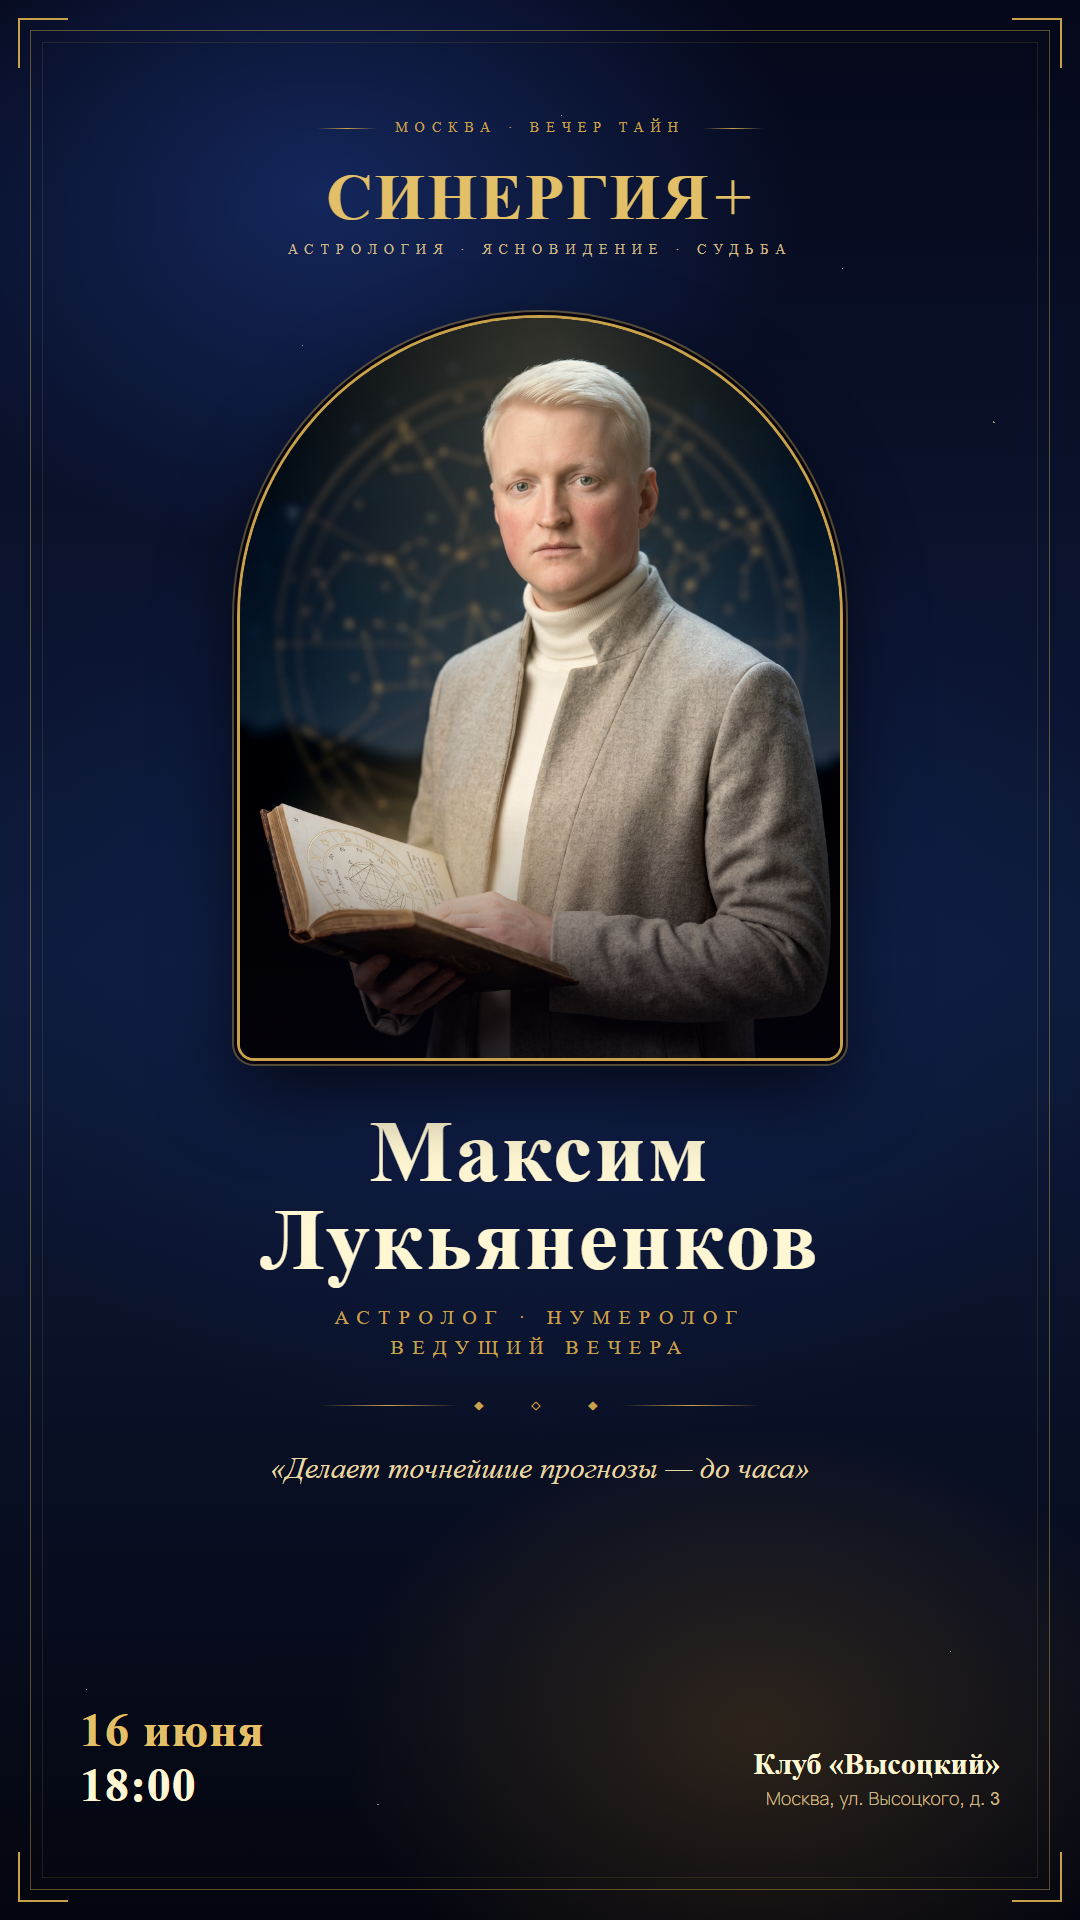
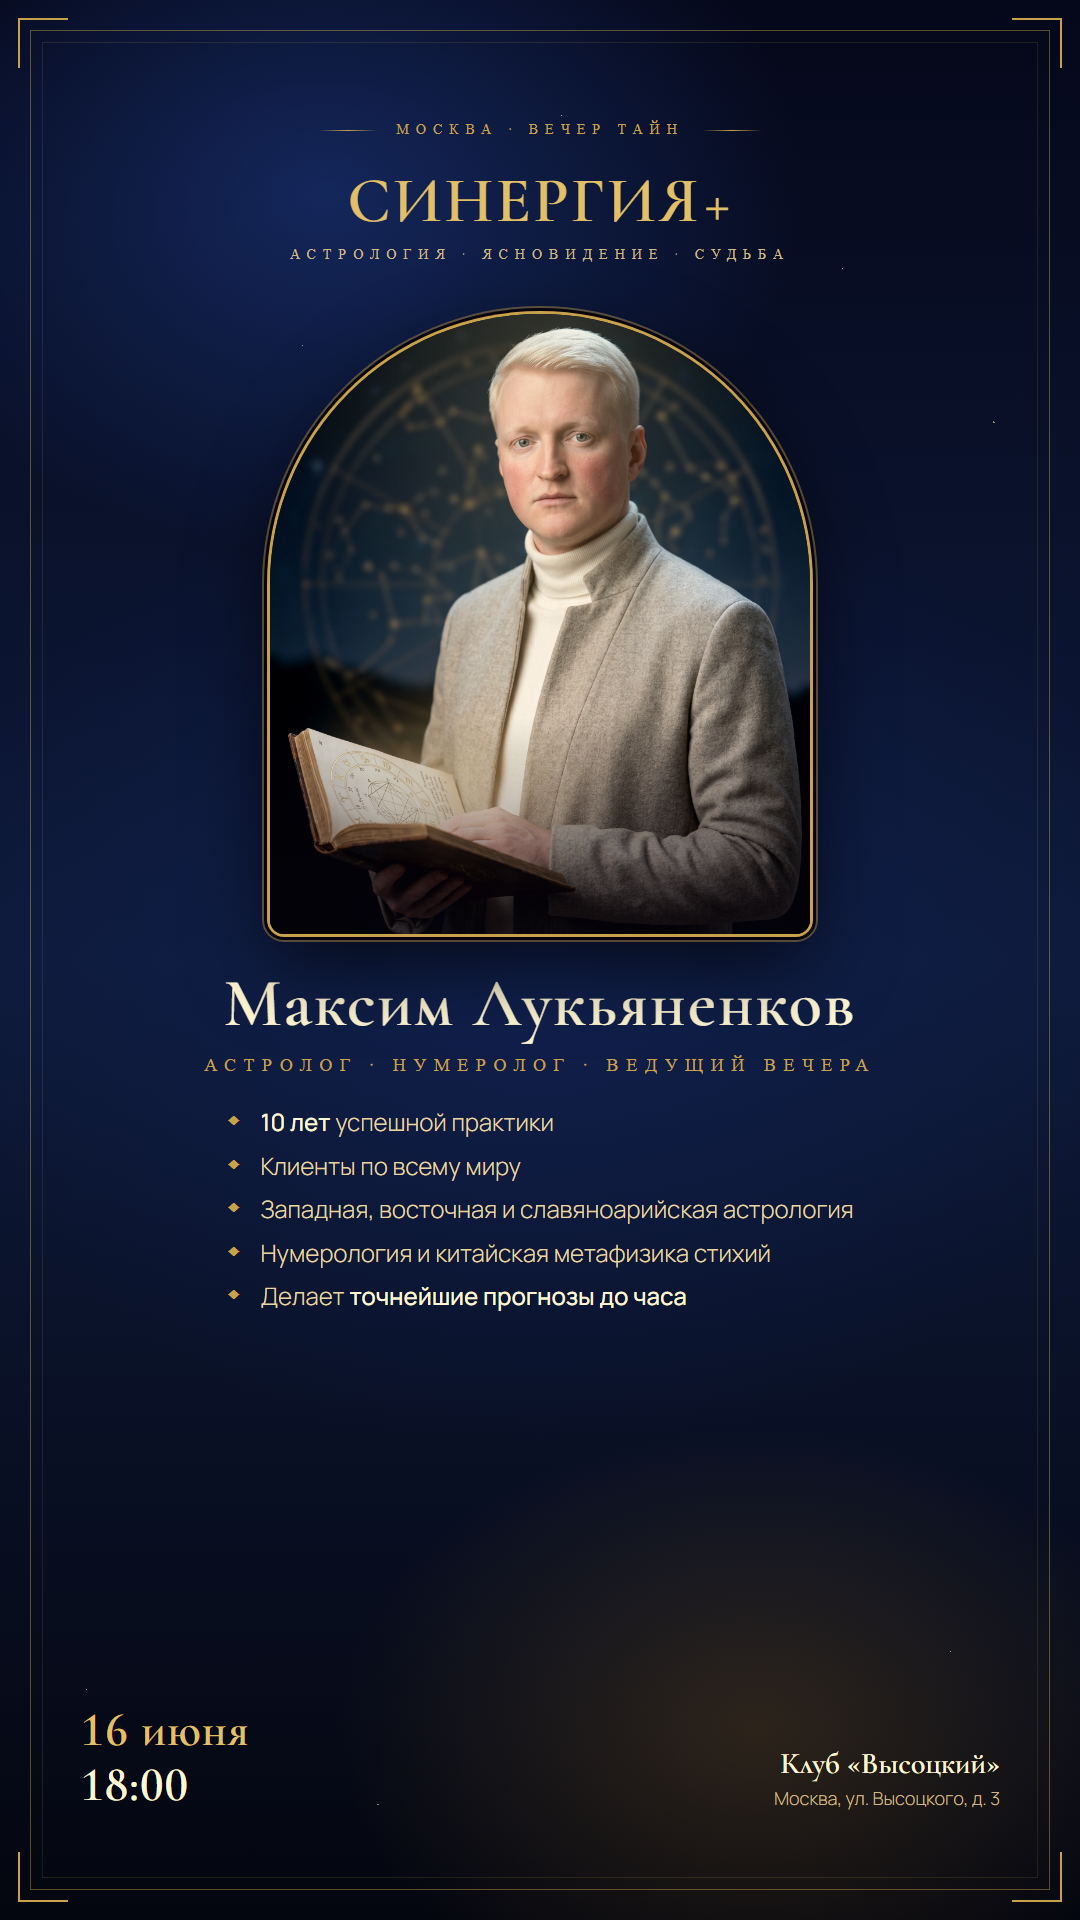
Full bio on hero cards

diff --git a/maksim.html b/maksim.html
@@ -90,10 +90,10 @@
   }
 
   .arch {
-    width:600px; height:740px;
-    margin:60px auto 0;
+    width:540px; height:620px;
+    margin:50px auto 0;
     position:relative;
-    border-radius:300px 300px 14px 14px;
+    border-radius:270px 270px 14px 14px;
     background:#140929;
     overflow:hidden;
     box-shadow:
@@ -118,18 +118,18 @@
   }
 
   .name {
-    margin-top:50px;
+    margin-top:36px;
     font-family:'Cormorant Garamond', serif;
-    font-size:88px; font-weight:600; line-height:1;
+    font-size:68px; font-weight:600; line-height:1;
     color:#fff6d3;
     letter-spacing:.03em;
     text-align:center;
   }
 
   .role {
-    margin-top:18px;
+    margin-top:14px;
     font-family:'Cinzel', serif;
-    font-size:20px; font-weight:500;
+    font-size:18px; font-weight:500;
     letter-spacing:.42em;
     text-transform:uppercase;
     color:#c8a24a;
@@ -137,27 +137,26 @@
     line-height:1.5;
   }
 
-  .divider {
-    margin:34px auto 0;
-    display:flex; align-items:center; justify-content:center;
-    gap:14px;
-    color:#c8a24a; font-size:14px; letter-spacing:.6em;
+  .bio {
+    margin:26px auto 0;
+    max-width:820px;
+    list-style:none;
   }
-  .divider::before, .divider::after {
-    content:""; width:140px; height:1px;
-    background:linear-gradient(90deg, transparent, #c8a24a, transparent);
-  }
-
-  .credo {
-    margin-top:32px;
-    font-family:'Cormorant Garamond', serif;
-    font-style:italic;
-    font-size:30px;
-    line-height:1.4;
+  .bio li {
+    position:relative;
+    padding-left:34px;
+    margin-bottom:10px;
+    font-family:'Manrope', sans-serif;
+    font-size:24px; line-height:1.4;
     color:#e7d8a3;
-    text-align:center;
-    max-width:840px;
+    font-weight:300;
   }
+  .bio li::before {
+    content:"◆";
+    position:absolute; left:0; top:4px;
+    color:#c8a24a; font-size:16px;
+  }
+  .bio b { color:#fff6d3; font-weight:500; }
 
   .footer {
     position:absolute; left:80px; right:80px; bottom:110px;
@@ -225,10 +224,15 @@
     </div>
 
     <div class="name">Максим Лукьяненков</div>
-    <div class="role">астролог · нумеролог<br>ведущий вечера</div>
+    <div class="role">астролог · нумеролог · ведущий вечера</div>
 
-    <div class="divider">◆ &nbsp; ◇ &nbsp; ◆</div>
-    <div class="credo">«Делает точнейшие прогнозы — до часа»</div>
+    <ul class="bio">
+      <li><b>10 лет</b> успешной практики</li>
+      <li>Клиенты по всему миру</li>
+      <li>Западная, восточная и славяноарийская астрология</li>
+      <li>Нумерология и китайская метафизика стихий</li>
+      <li>Делает <b>точнейшие прогнозы до часа</b></li>
+    </ul>
   </div>
 
   <div class="footer">

diff --git a/mikhail.html b/mikhail.html
@@ -90,10 +90,10 @@
   }
 
   .arch {
-    width:600px; height:740px;
-    margin:60px auto 0;
+    width:540px; height:620px;
+    margin:50px auto 0;
     position:relative;
-    border-radius:300px 300px 14px 14px;
+    border-radius:270px 270px 14px 14px;
     background:#140929;
     overflow:hidden;
     box-shadow:
@@ -118,18 +118,18 @@
   }
 
   .name {
-    margin-top:50px;
+    margin-top:40px;
     font-family:'Cormorant Garamond', serif;
-    font-size:88px; font-weight:600; line-height:1;
+    font-size:78px; font-weight:600; line-height:1;
     color:#fff6d3;
     letter-spacing:.03em;
     text-align:center;
   }
 
   .role {
-    margin-top:18px;
+    margin-top:16px;
     font-family:'Cinzel', serif;
-    font-size:20px; font-weight:500;
+    font-size:18px; font-weight:500;
     letter-spacing:.42em;
     text-transform:uppercase;
     color:#c8a24a;
@@ -137,27 +137,26 @@
     line-height:1.5;
   }
 
-  .divider {
-    margin:34px auto 0;
-    display:flex; align-items:center; justify-content:center;
-    gap:14px;
-    color:#c8a24a; font-size:14px; letter-spacing:.6em;
+  .bio {
+    margin:32px auto 0;
+    max-width:780px;
+    list-style:none;
   }
-  .divider::before, .divider::after {
-    content:""; width:140px; height:1px;
-    background:linear-gradient(90deg, transparent, #c8a24a, transparent);
-  }
-
-  .credo {
-    margin-top:32px;
-    font-family:'Cormorant Garamond', serif;
-    font-style:italic;
-    font-size:30px;
-    line-height:1.4;
+  .bio li {
+    position:relative;
+    padding-left:34px;
+    margin-bottom:12px;
+    font-family:'Manrope', sans-serif;
+    font-size:26px; line-height:1.4;
     color:#e7d8a3;
-    text-align:center;
-    max-width:840px;
+    font-weight:300;
   }
+  .bio li::before {
+    content:"◆";
+    position:absolute; left:0; top:4px;
+    color:#c8a24a; font-size:16px;
+  }
+  .bio b { color:#fff6d3; font-weight:500; }
 
   .footer {
     position:absolute; left:80px; right:80px; bottom:110px;
@@ -227,8 +226,12 @@
     <div class="name">Михаил Алмазов</div>
     <div class="role">ясновидящий · медиум · хиромант</div>
 
-    <div class="divider">◆ &nbsp; ◇ &nbsp; ◆</div>
-    <div class="credo">«Видит то, что вы прячете даже от себя»</div>
+    <ul class="bio">
+      <li>Личный медиум <b>В.В. Жириновского</b></li>
+      <li>Ученик легендарной <b>Джуны</b></li>
+      <li>Ясновидящий и корректор судьбы</li>
+      <li>Работает с влиятельными людьми, бизнесменами и политиками</li>
+    </ul>
   </div>
 
   <div class="footer">
